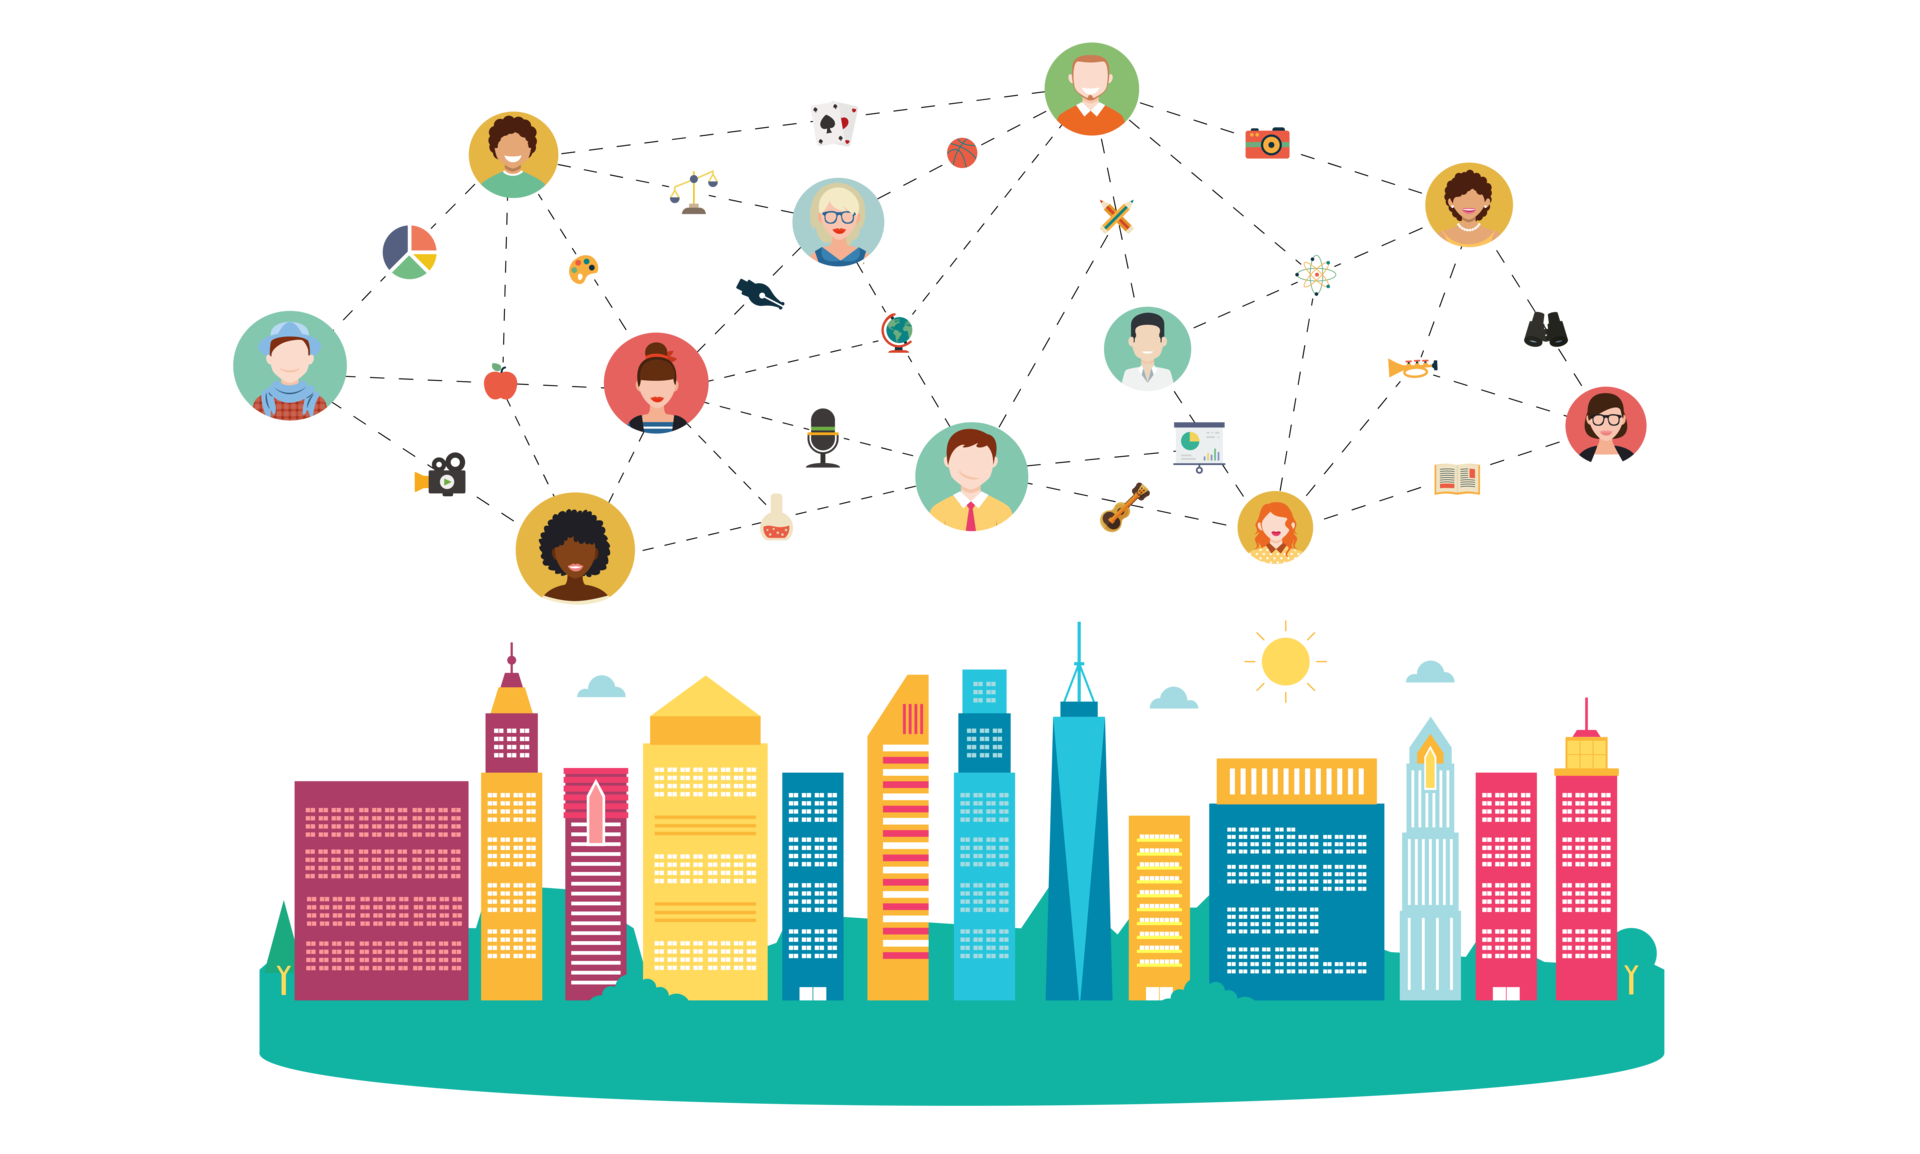
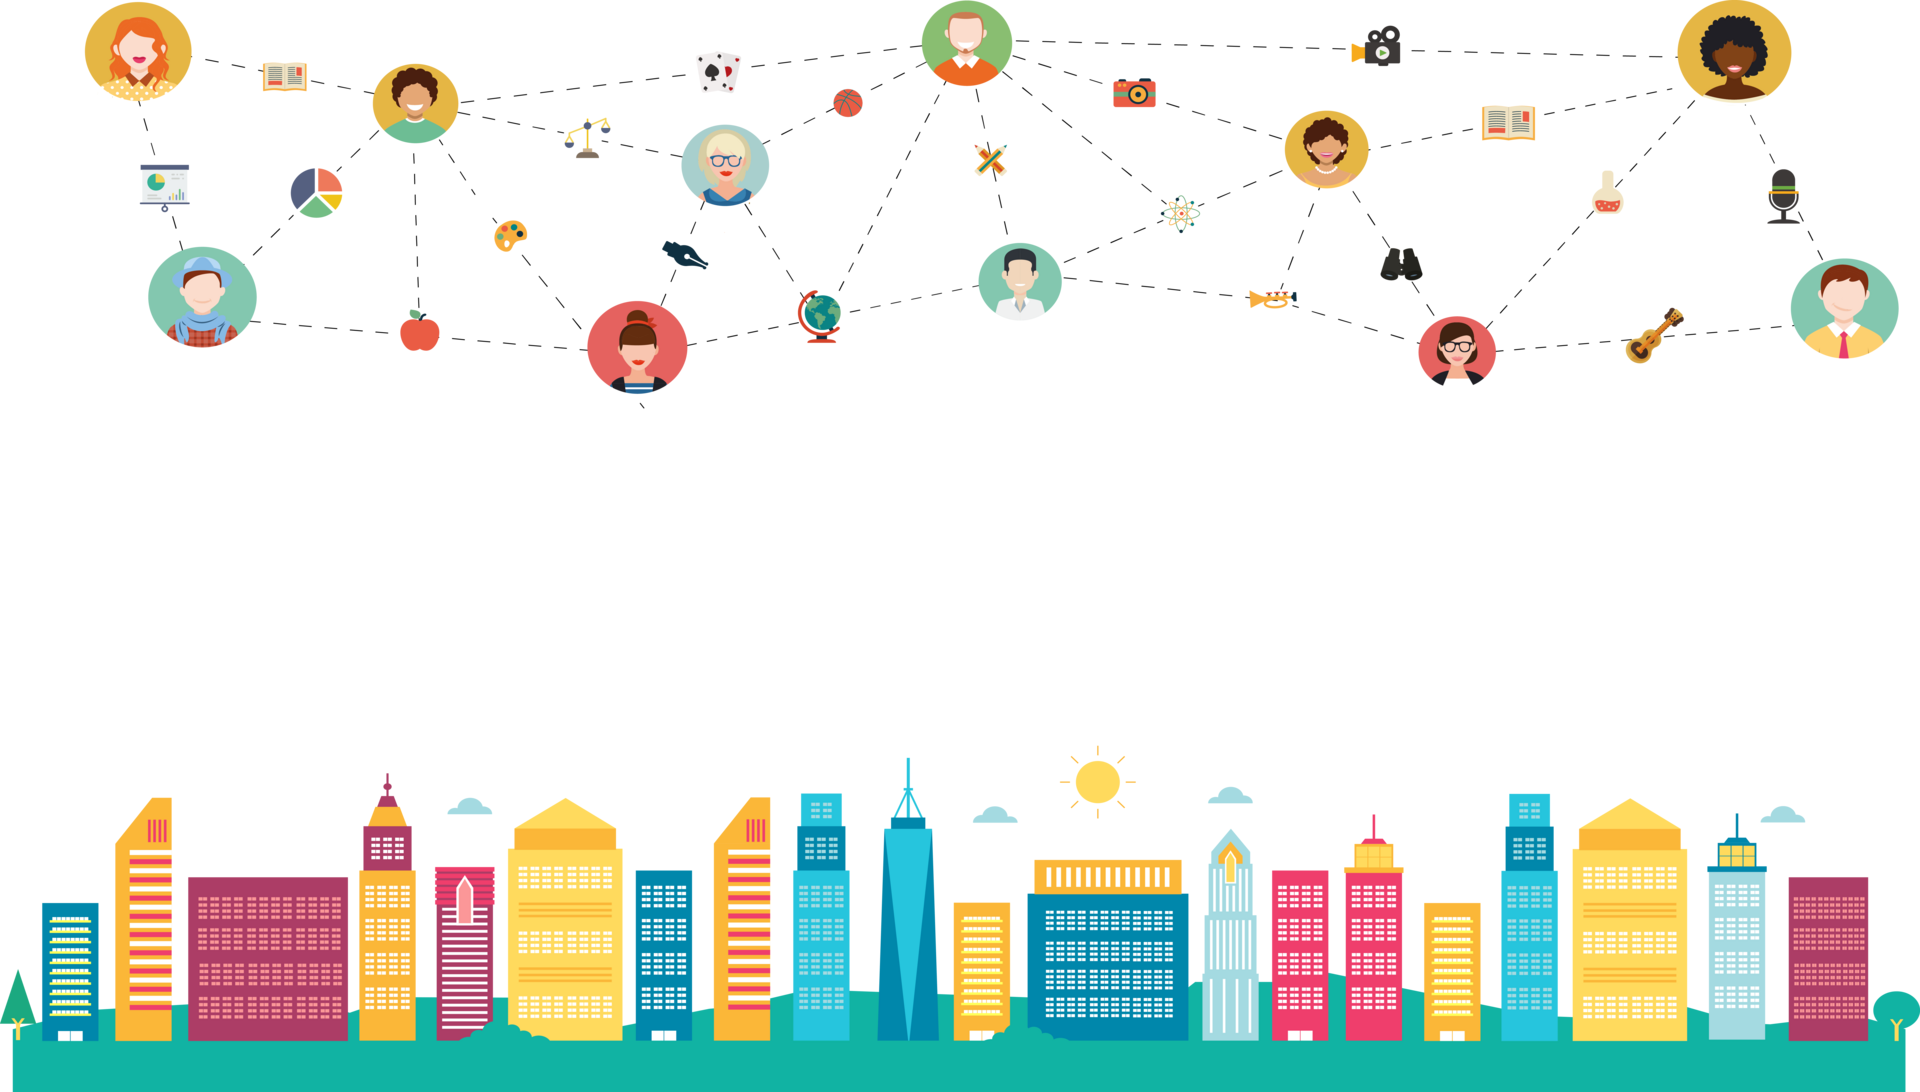
Update background homepage image

diff --git a/static_website/css/style.css b/static_website/css/style.css
@@ -153,17 +153,10 @@ img.picto {
 
 #tf-home .content-heading {
   padding: 10px 0;
-  background: rgba(0, 0, 0, 0.6);
   border-radius: 20px;
 }
 
 #tf-home .overlay {
-    background: -moz-linear-gradient(top,  rgba(0,0,0,0.8) 0%, rgba(0,0,0,0.73) 17%, rgba(0,0,0,0.66) 35%, rgba(0,0,0,0.55) 62%, rgba(0,0,0,0.4) 100%); /* FF3.6+ */
-    background: -webkit-gradient(linear, left top, left bottom, color-stop(0%,rgba(0,0,0,0.8)), color-stop(17%,rgba(0,0,0,0.73)), color-stop(35%,rgba(0,0,0,0.66)), color-stop(62%,rgba(0,0,0,0.55)), color-stop(100%,rgba(0,0,0,0.4))); /* Chrome,Safari4+ */
-    background: -webkit-linear-gradient(top,  rgba(0,0,0,0.8) 0%,rgba(0,0,0,0.73) 17%,rgba(0,0,0,0.66) 35%,rgba(0,0,0,0.55) 62%,rgba(0,0,0,0.4) 100%); /* Chrome10+,Safari5.1+ */
-    background: -o-linear-gradient(top,  rgba(0,0,0,0.8) 0%,rgba(0,0,0,0.73) 17%,rgba(0,0,0,0.66) 35%,rgba(0,0,0,0.55) 62%,rgba(0,0,0,0.4) 100%); /* Opera 11.10+ */
-    background: -ms-linear-gradient(top,  rgba(0,0,0,0.8) 0%,rgba(0,0,0,0.73) 17%,rgba(0,0,0,0.66) 35%,rgba(0,0,0,0.55) 62%,rgba(0,0,0,0.4) 100%); /* IE10+ */
-    background: linear-gradient(to bottom,  rgba(0,0,0,0.8) 0%,rgba(0,0,0,0.73) 17%,rgba(0,0,0,0.66) 35%,rgba(0,0,0,0.55) 62%,rgba(0,0,0,0.4) 100%); /* W3C */
     padding-top: 10%;
     padding-bottom: 20%;
     background-attachment: fixed;
